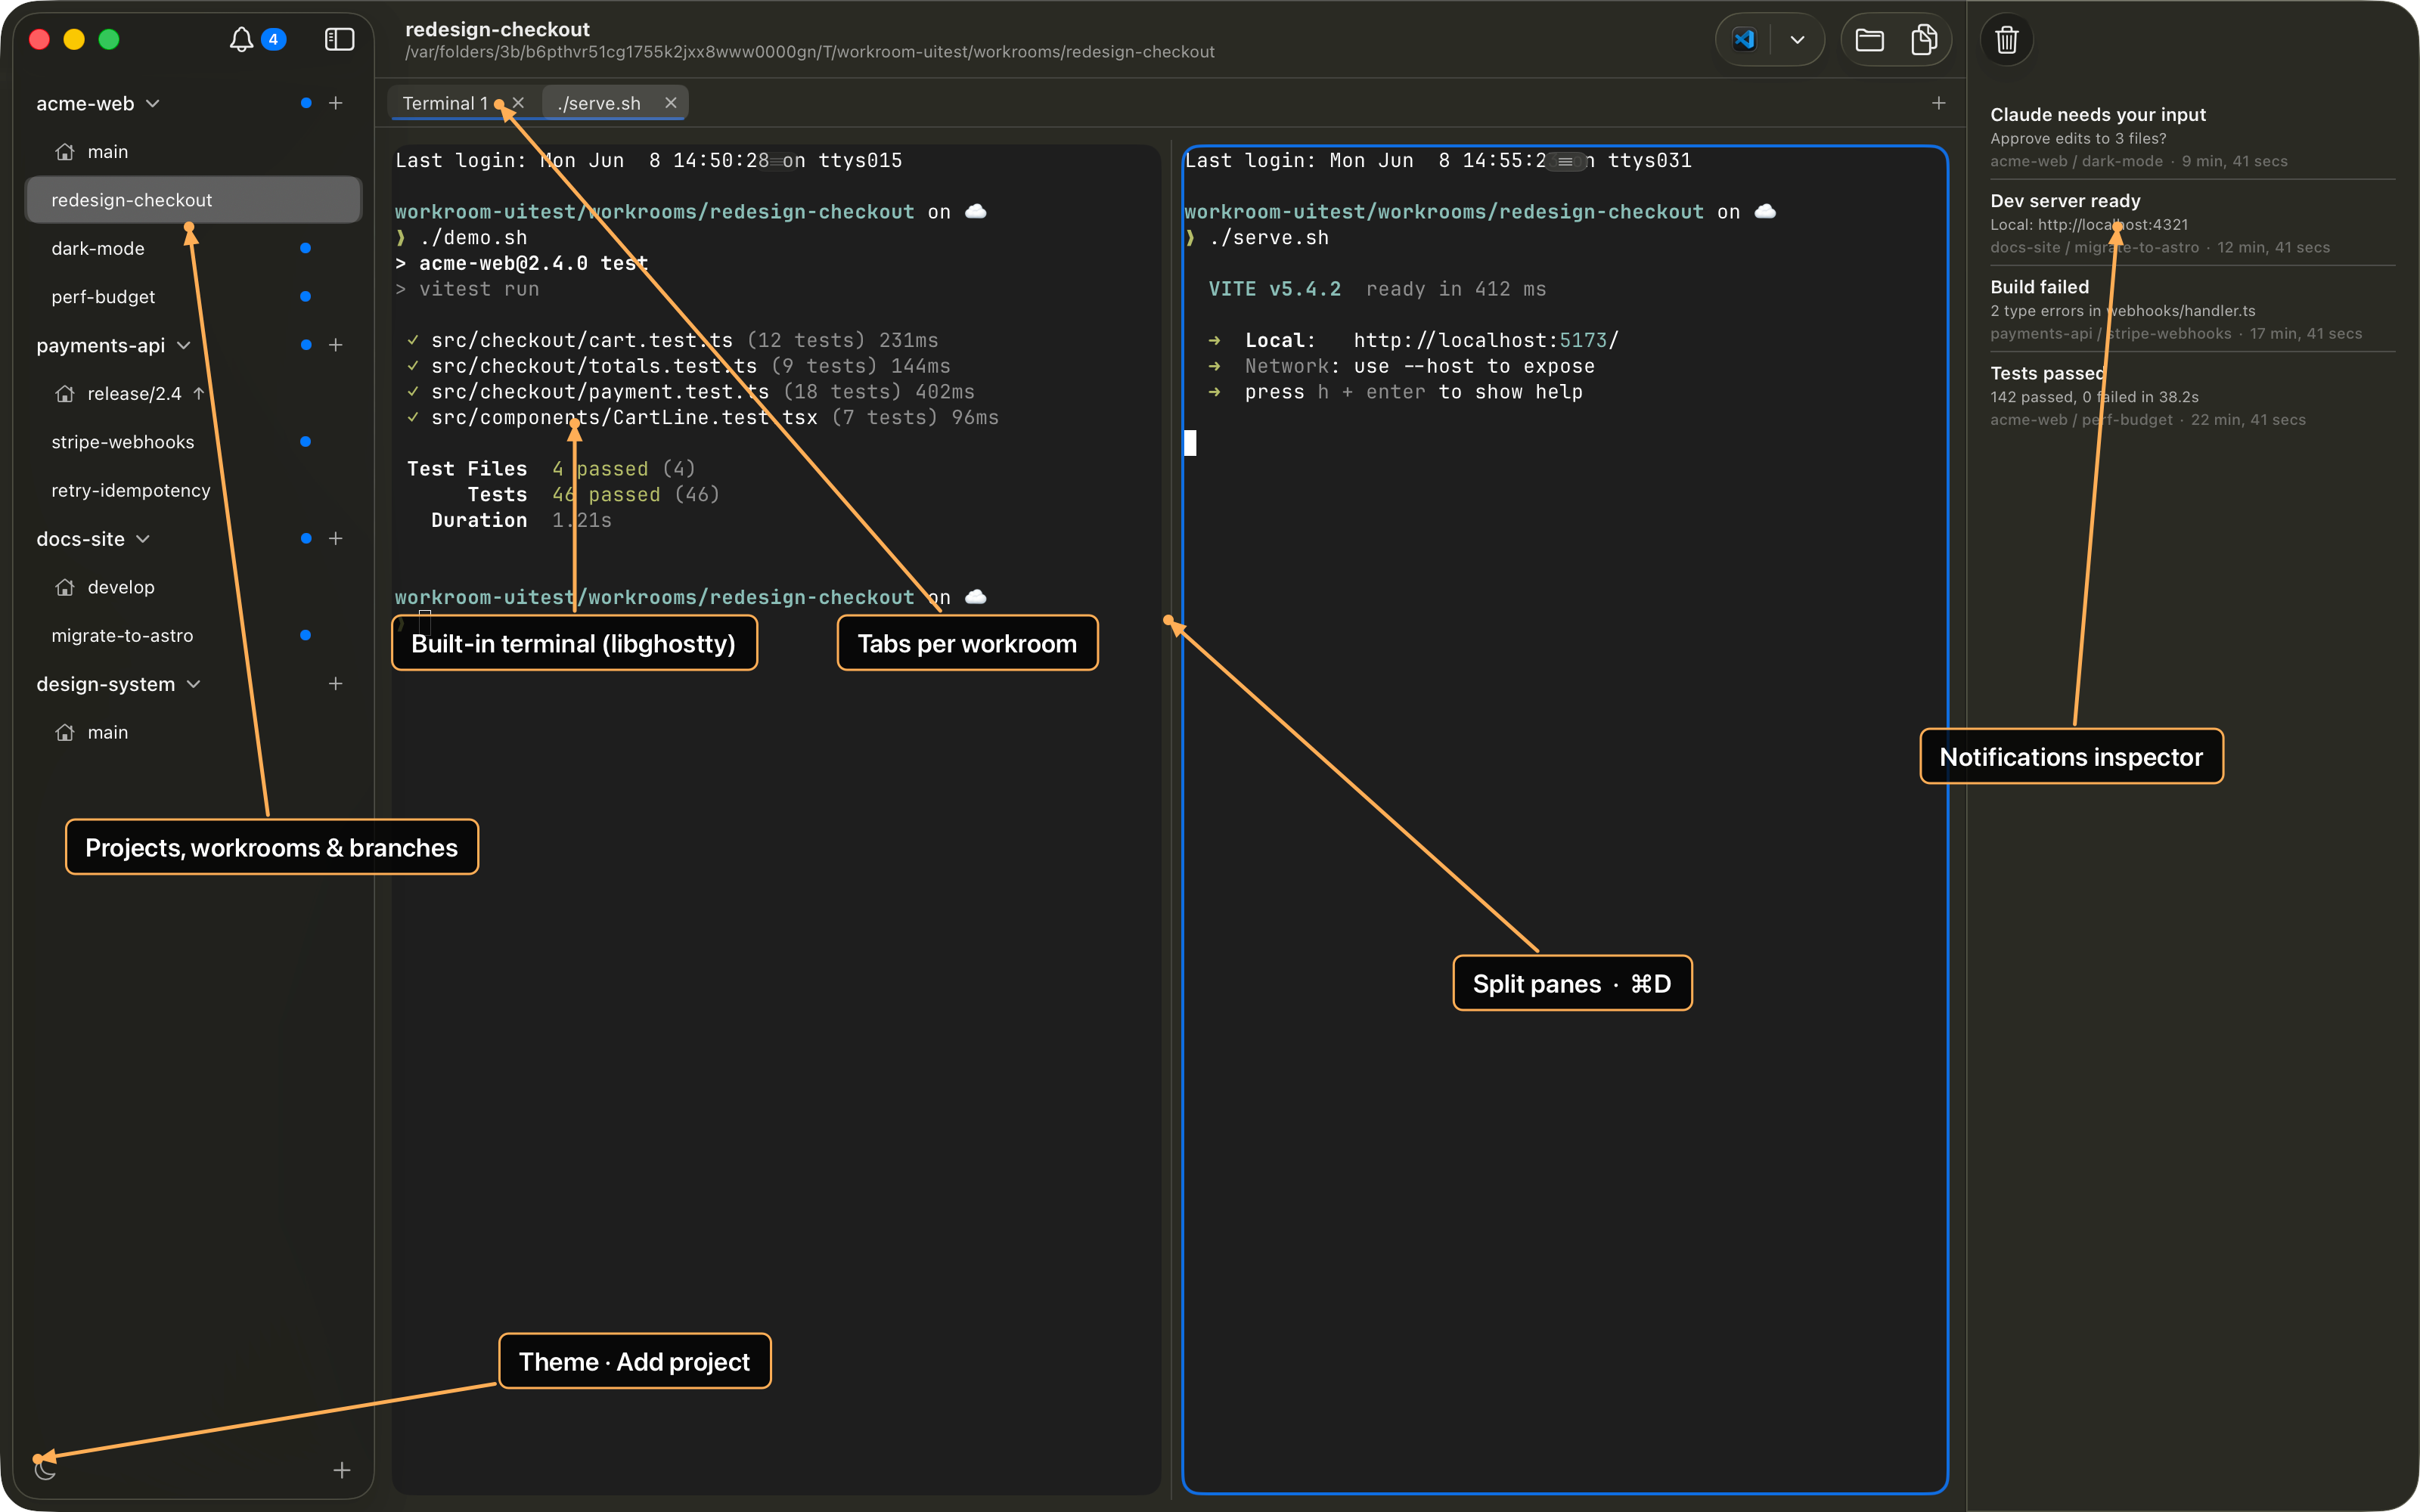
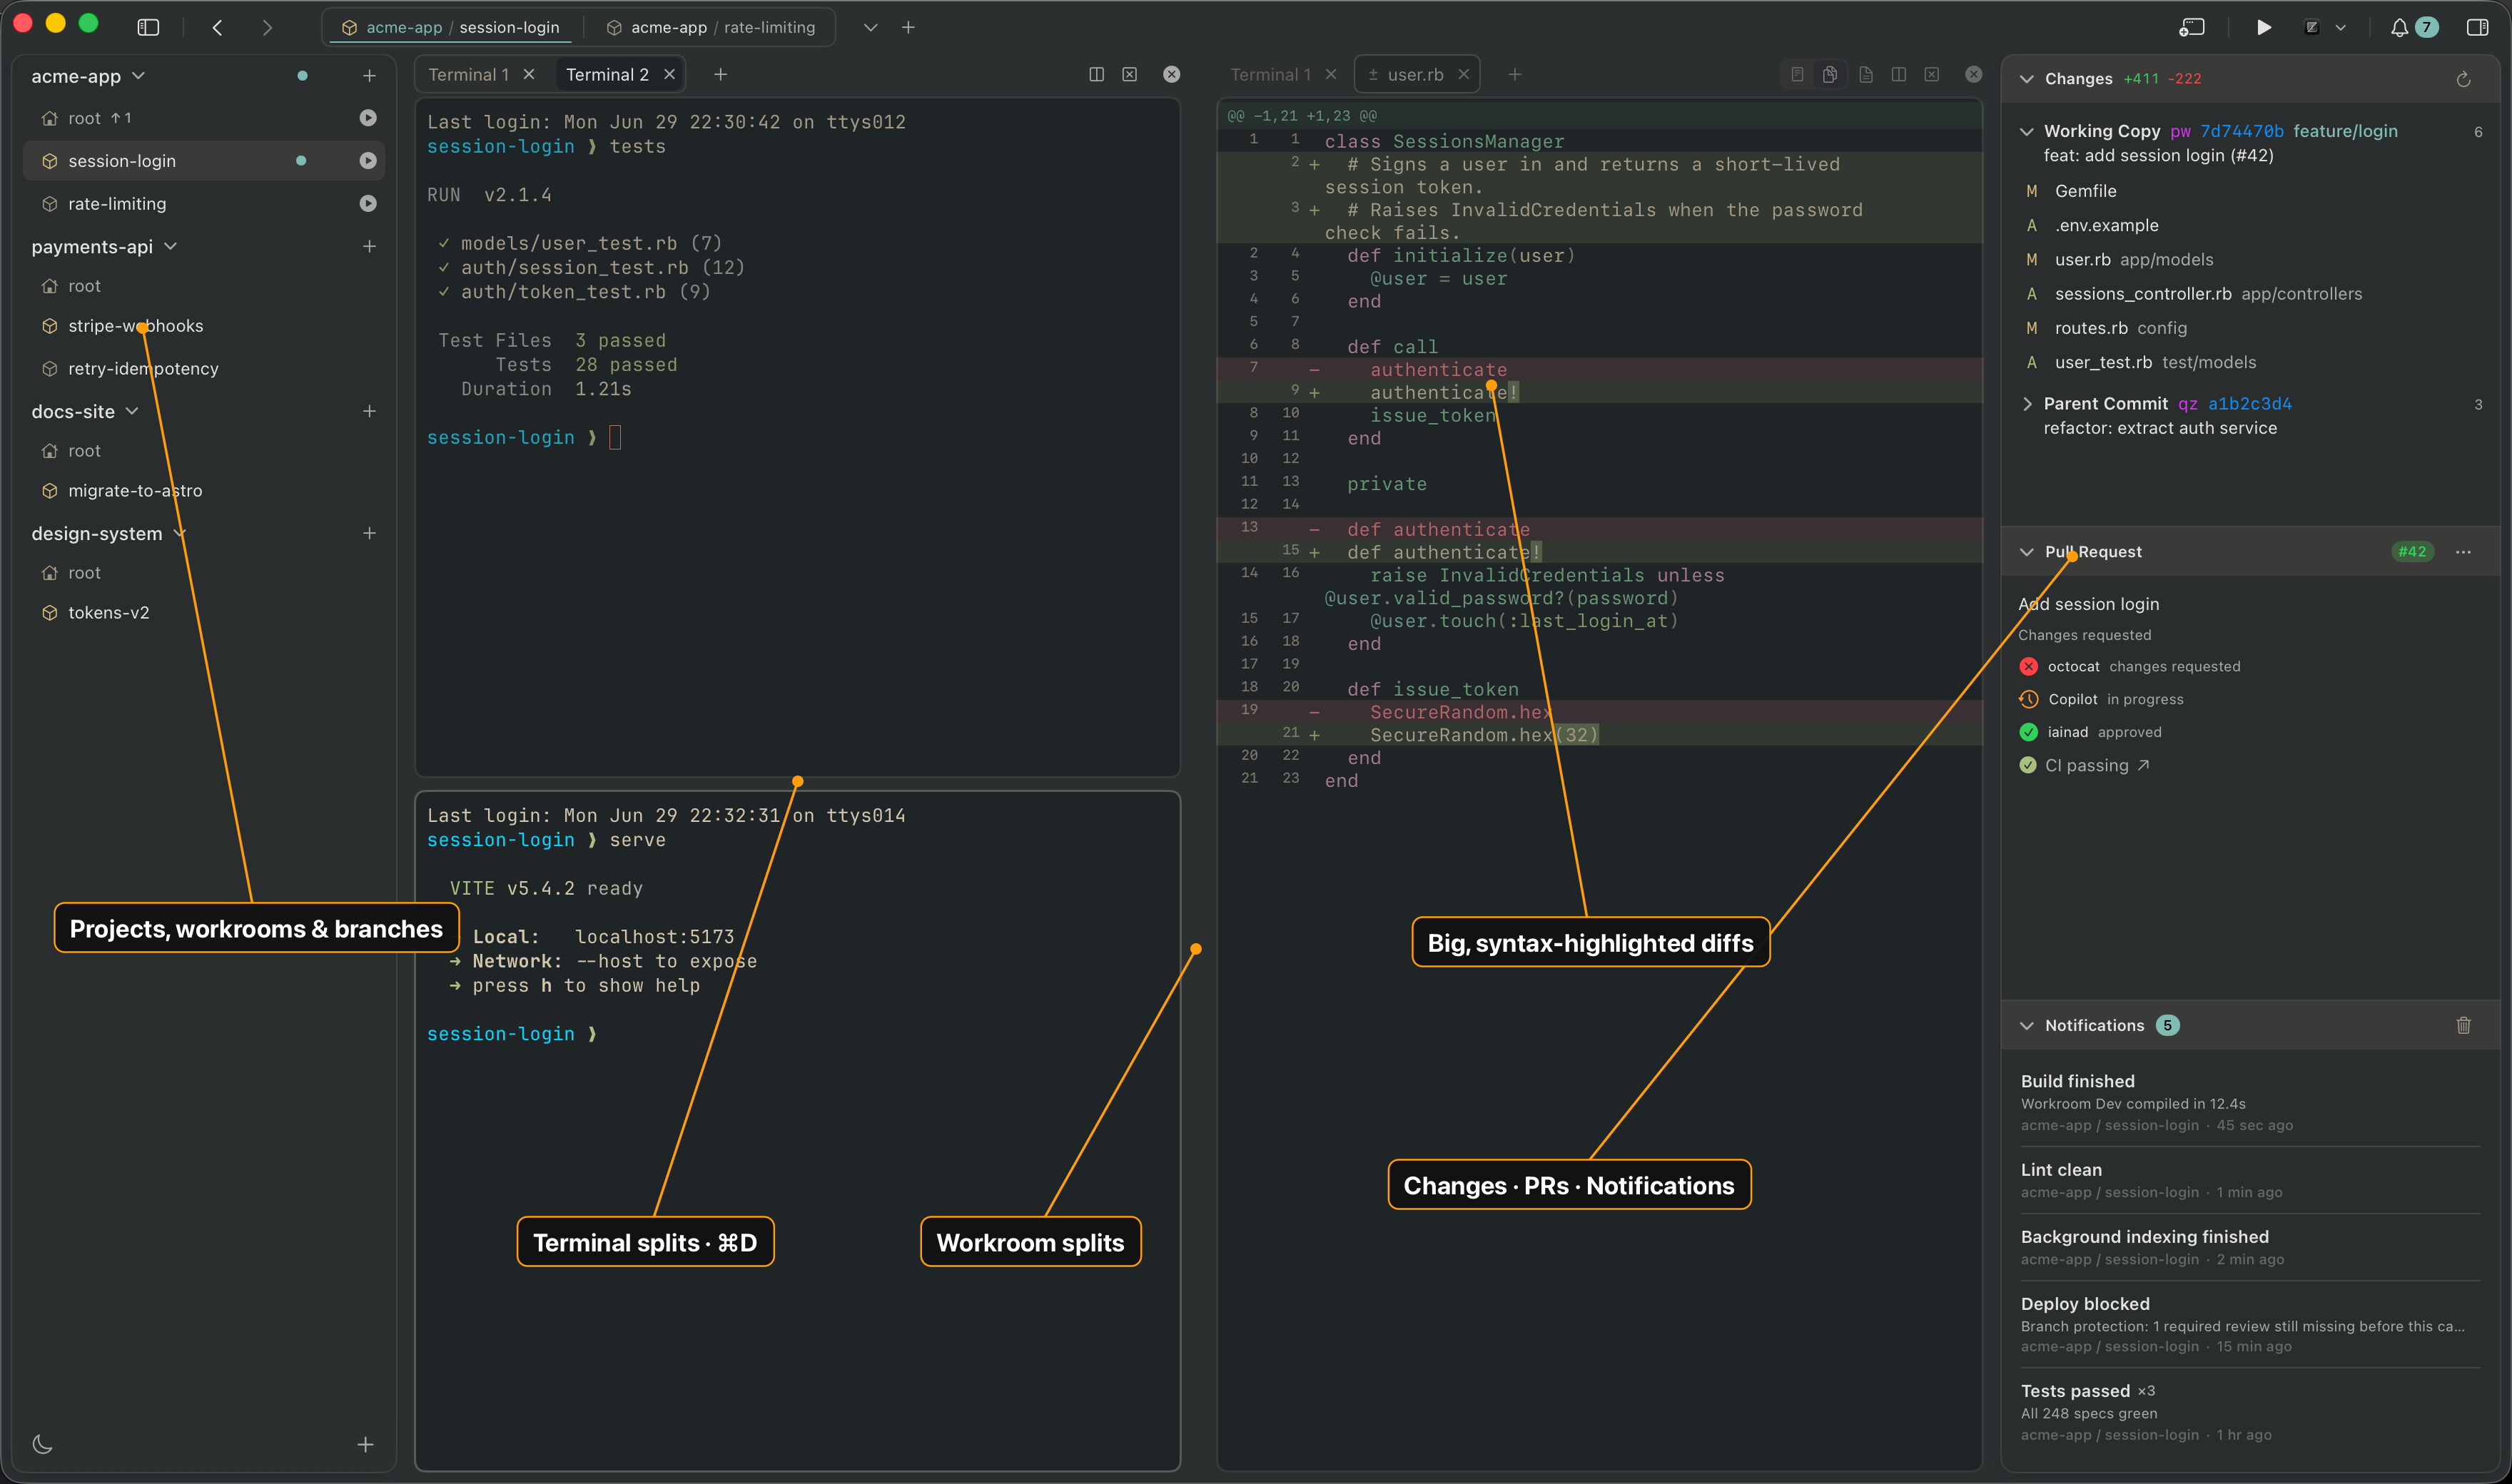
docs(readme): refresh app screenshot with current UI
Replace the hero image with the multi-project sidebar, a vertical
terminal split, a side-by-side workroom split, a syntax-highlighted
file diff, and the Changes/Pull Request/Notifications inspector.
Update the img alt text to match.

Claude-Session: https://claude.ai/code/session_01GStEnBDKnizzY41hp2n7NB

diff --git a/README.md b/README.md
@@ -6,7 +6,7 @@ Spin up a workroom, get a terminal, get notified.
 
 <p align="center">
   <img src="docs/workroom-app.png" width="900"
-    alt="The Workroom macOS app: a sidebar tree of projects and their workrooms with current branches and unread badges, a split terminal running a test suite and a dev server, and a notifications inspector.">
+    alt="The Workroom macOS app: a sidebar tree of several projects and their workrooms with current branches and change badges; two workrooms open side by side, one with a vertically split terminal running a test suite and a dev server, the other showing a syntax-highlighted file diff; and an inspector with Changes, Pull Request, and Notifications panels.">
 </p>
 
 <p align="center">